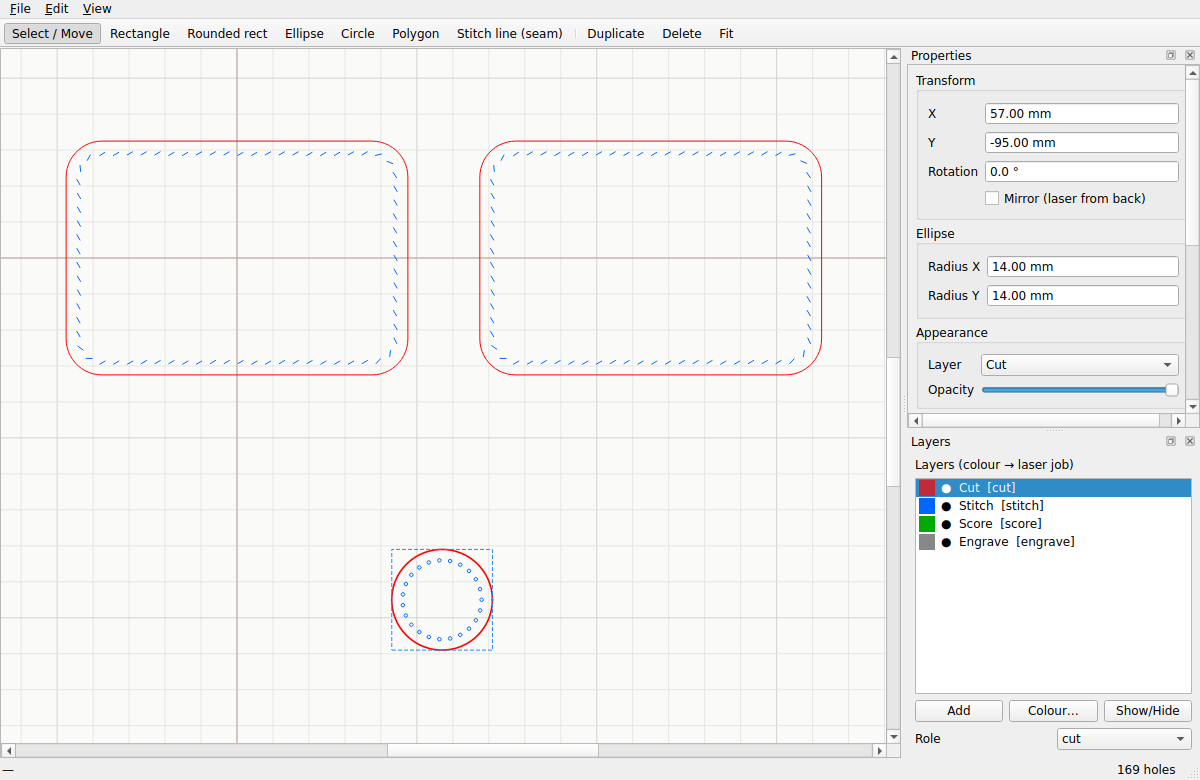
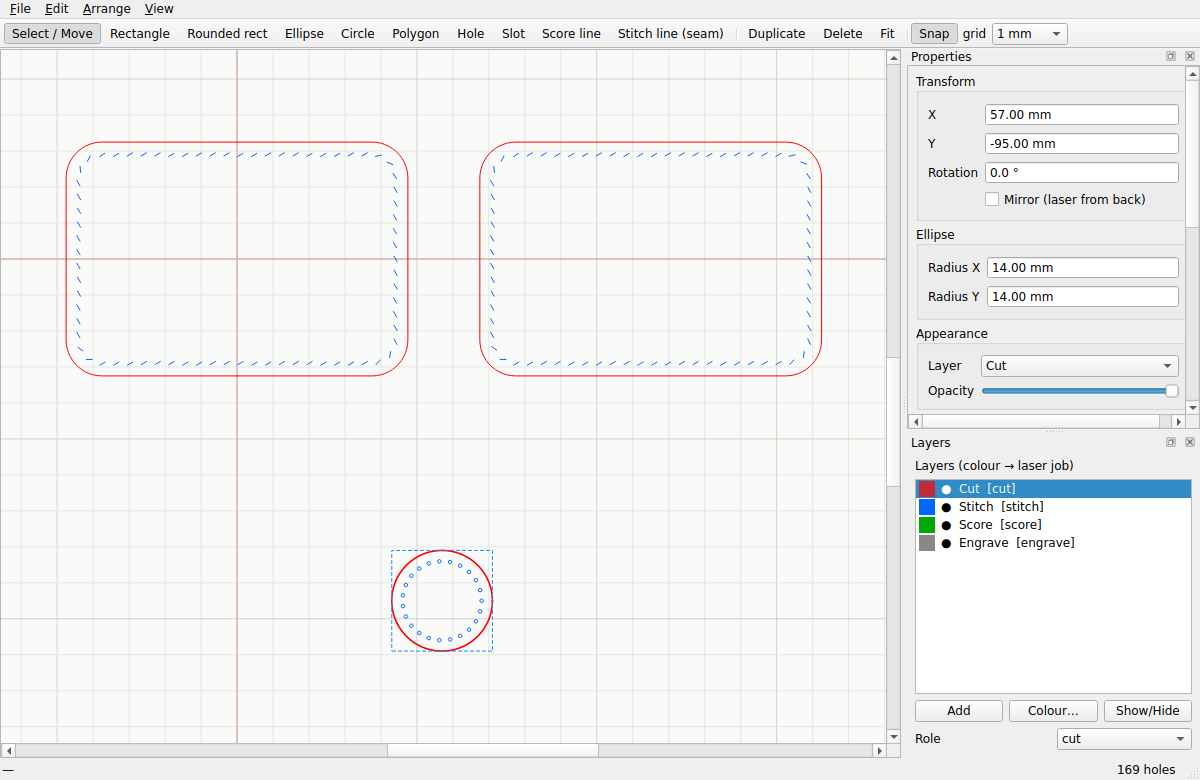
Update README: current tools, features table, and roadmap
Reflects snapping/dimensions, vertex editing, hole/slot/score tools, two-row
saddle stitch + backstitch, undo/redo and align/distribute; refreshes the app
screenshot for the current toolbar.

Claude-Session: https://claude.ai/code/session_01CtLxZZhGKjmTBCJjqWwpcK

diff --git a/README.md b/README.md
@@ -68,11 +68,17 @@ need PySide6 for the GUI.
 | | |
 |---|---|
 | **Draw** | Rectangle `R`, Rounded rect `O`, Ellipse `E`, Circle `C`, Polygon `P` (click points, double-click to finish) |
+| **Holes / slots / fold lines** | Hole `H` (hardware), Slot `T` (stadium), Score line `K` (fold/skive on the Score layer) |
 | **Seam** | Stitch line `L` — a shared seam for cross-piece registration |
 | **Select / move** | `S` — drag to move, drag one piece over another to check fit |
+| **Snapping** | toolbar *Snap* toggle + grid size; snaps to grid and to other shapes' corners while drawing and moving |
+| **Exact sizes** | live W×H shown while dragging; after drawing, the size field is focused so you can type an exact value |
+| **Edit vertices** | double-click a polygon or seam to drag its points |
 | **Radius corners** | select a rectangle/polygon, set *Corner radius* in Properties |
-| **Iron & holes** | per shape: pick an iron (mm or SPI), inset, round or slanted-slit holes, live hole count + spacing readout |
+| **Iron & holes** | per shape: pick an iron (mm or SPI), inset, round or slanted-slit holes, single or **double row** (saddle stitch) + backstitch, live hole count + spacing readout |
 | **Layers → laser jobs** | colour-coded Cut / Score / Engrave / Stitch layers with visibility |
+| **Arrange** | align (left/centre/right/top/middle/bottom) and distribute selected shapes |
+| **Undo / redo** | `Ctrl+Z` / `Ctrl+Shift+Z` |
 | **Duplicate / Delete / Fit** | `Ctrl+D` / `Del` / `F` |
 | **Zoom / pan** | mouse wheel / middle-drag |
 | **Save / Open** | `Ctrl+S` / `Ctrl+O` (JSON project files) |
@@ -153,11 +159,15 @@ examples/  tests/  docs/
 - [x] Cross-piece registration (deterministic + mirror-safe + shared seams)
 - [x] Colour layers → laser jobs
 - [x] SVG + DXF export, JSON project save/load
-- [ ] Snapping / alignment guides / numeric dimension entry while drawing
-- [ ] Edit polygon/seam vertices after creation; add holes/skives/slots
-- [ ] Two-row saddle-stitch offset and backstitch conventions
+- [x] Undo/redo history
+- [x] Grid + vertex snapping, live and type-in dimensions
+- [x] Align / distribute
+- [x] Edit polygon/seam vertices; add holes / slots / skive (score) lines
+- [x] Two-row saddle stitch + backstitch markers
 - [ ] Boolean ops (windows, cut-outs) and true seam-allowance offset
-- [ ] Undo/redo history
+- [ ] Alignment guides (smart snapping lines) while dragging
+- [ ] Import reference images / trace an existing pattern
+- [ ] Print-to-scale PDF tiling for hand cutting
 
 ## License
 
